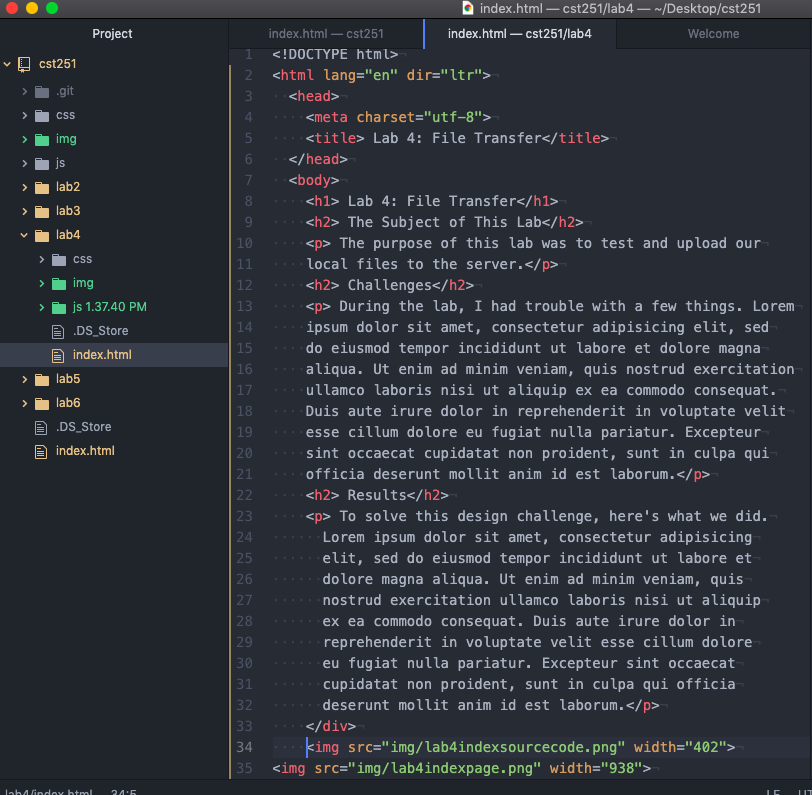
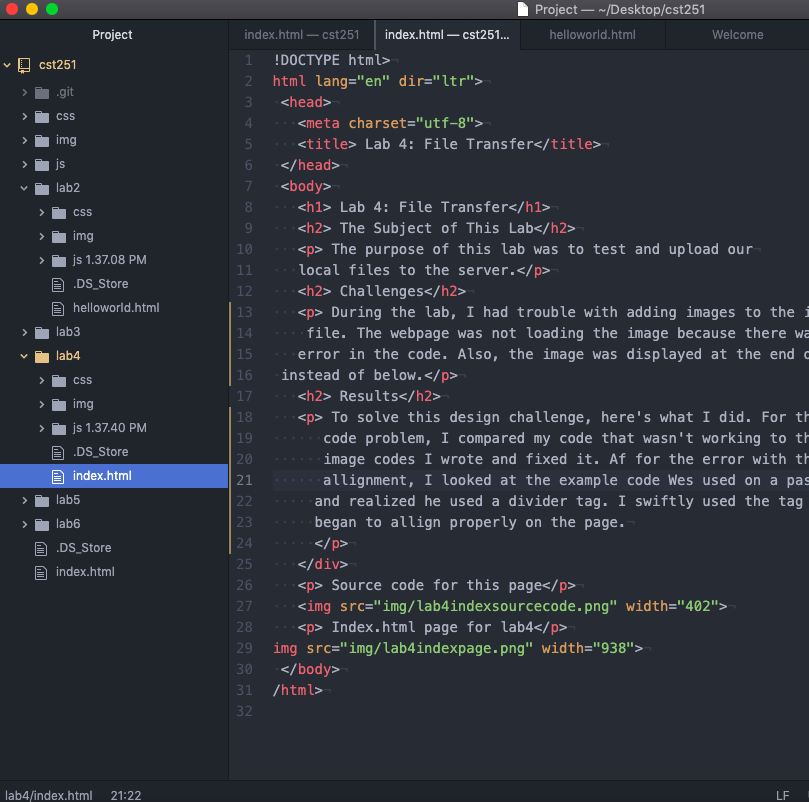
Edited lab 4 paragraphs and changed source code image.

diff --git a/lab4/index.html b/lab4/index.html
@@ -10,26 +10,18 @@
     <p> The purpose of this lab was to test and upload our
     local files to the server.</p>
     <h2> Challenges</h2>
-    <p> During the lab, I had trouble with a few things. Lorem
-    ipsum dolor sit amet, consectetur adipisicing elit, sed
-    do eiusmod tempor incididunt ut labore et dolore magna
-    aliqua. Ut enim ad minim veniam, quis nostrud exercitation
-    ullamco laboris nisi ut aliquip ex ea commodo consequat.
-    Duis aute irure dolor in reprehenderit in voluptate velit
-    esse cillum dolore eu fugiat nulla pariatur. Excepteur
-    sint occaecat cupidatat non proident, sunt in culpa qui
-    officia deserunt mollit anim id est laborum.</p>
+    <p> During the lab, I had trouble with adding images to the index
+     file. The webpage was not loading the image because there was an
+    error in the code. Also, the image was displayed at the end of the paragraph
+  instead of below.</p>
     <h2> Results</h2>
-    <p> To solve this design challenge, here's what we did.
-      Lorem ipsum dolor sit amet, consectetur adipisicing
-      elit, sed do eiusmod tempor incididunt ut labore et
-      dolore magna aliqua. Ut enim ad minim veniam, quis
-      nostrud exercitation ullamco laboris nisi ut aliquip
-      ex ea commodo consequat. Duis aute irure dolor in
-      reprehenderit in voluptate velit esse cillum dolore
-      eu fugiat nulla pariatur. Excepteur sint occaecat
-      cupidatat non proident, sunt in culpa qui officia
-      deserunt mollit anim id est laborum.</p>
+    <p> To solve this design challenge, here's what I did. For the image
+       code problem, I compared my code that wasn't working to the other
+       image codes I wrote and fixed it. Af for the error with the
+       allignment, I looked at the example code Wes used on a past lab
+      and realized he used a divider tag. I swiftly used the tag and my images
+      began to allign properly on the page.
+      </p>
     </div>
     <p> Source code for this page</p>
     <img src="img/lab4indexsourcecode.png" width="402">
